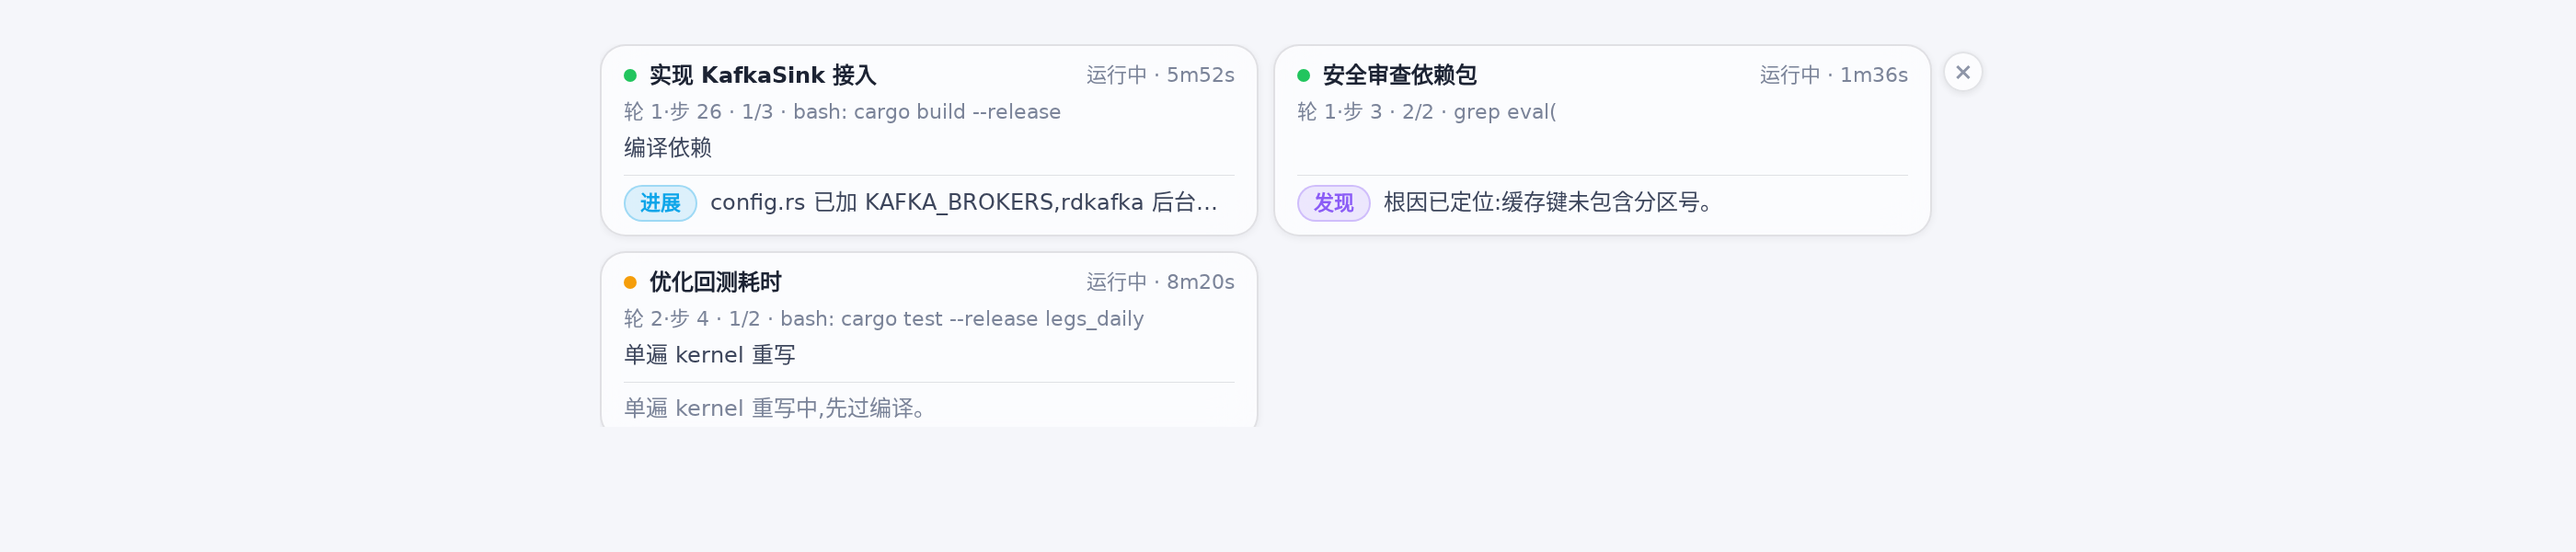
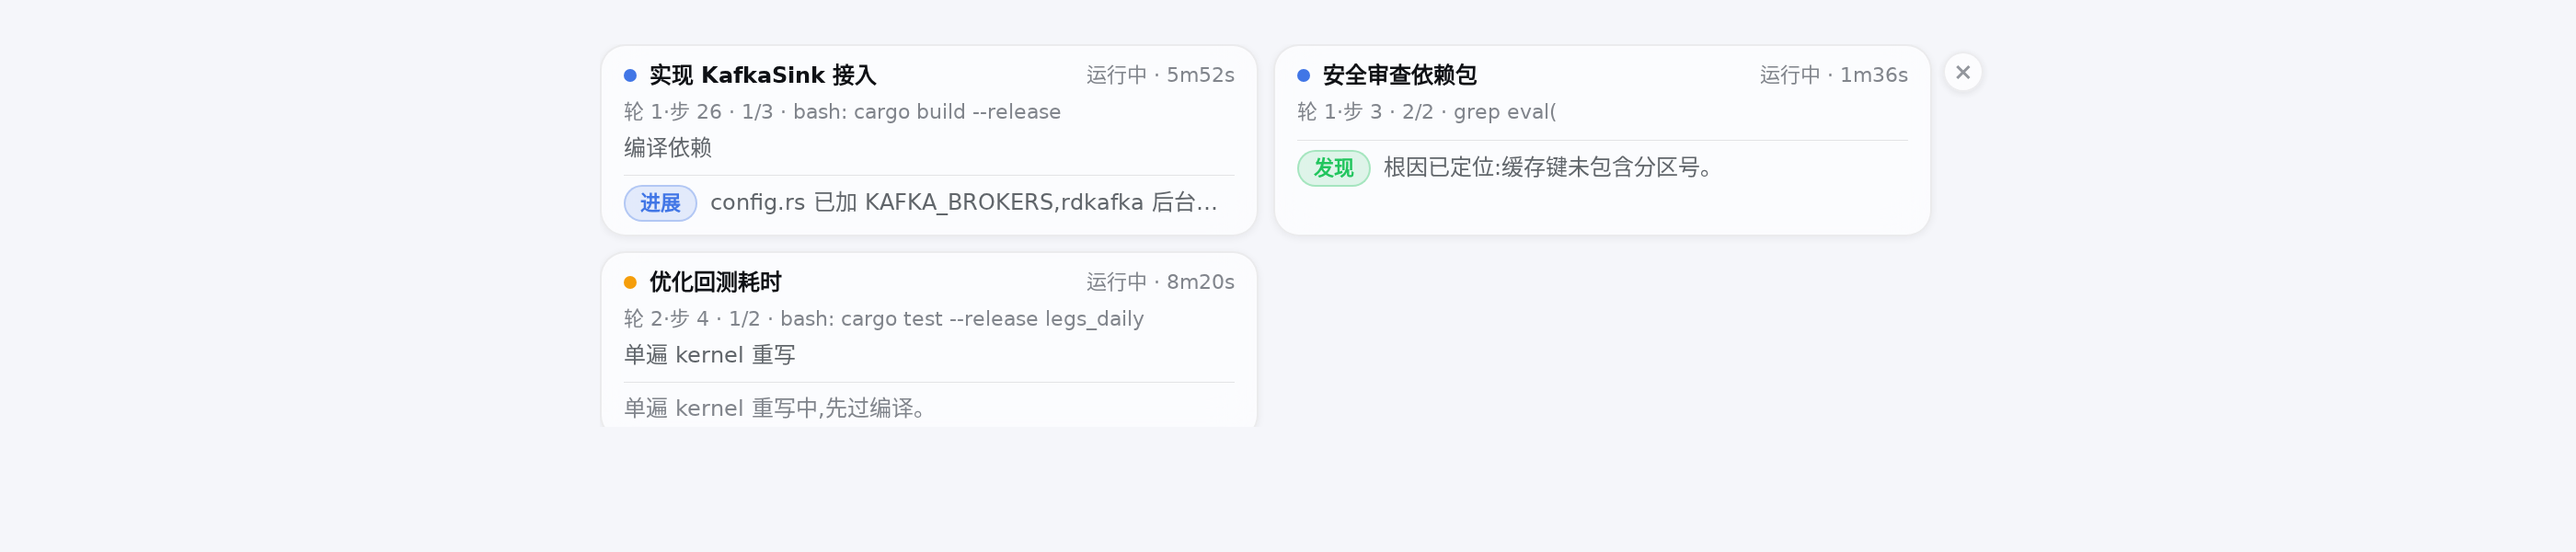
feat: DS-native palette — theme state variables replace Tailwind defaults
The status colors were stock Tailwind hexes (#22c55e/#f59e0b/#0ea5e9/#8b5cf6),
the signature AI-default palette. Now everything references the host's own
design tokens: running dot and progress updates use the DeepSeek brand blue
(--dsw-alias-state-business-primary, #4176e6 light / #679efe dark), stalled
and ETA use --dsw-alias-state-warn-primary, findings use
--dsw-alias-state-success-primary. Violet is gone from the system. All values
are var() references with the DS hex as fallback, so light and dark themes
both adapt automatically. README screenshot regenerated with the new palette.

diff --git a/lib/client.js b/lib/client.js
@@ -169,22 +169,22 @@ window.__ModuleLoader__.load({
   background: var(--dsw-alias-label-dimmed, #9aa0ab);
 }
 .dsh-sp-dot.dsh-sp-live {
-  background: #22c55e;
+  background: var(--dsw-alias-state-business-primary, #4176e6);
   animation: dsh-sp-pulse 1.7s ease-in-out infinite;
 }
 @keyframes dsh-sp-pulse {
-  0%, 100% { box-shadow: 0 0 0 0 rgba(34,197,94,.45); }
-  55% { box-shadow: 0 0 0 5px rgba(34,197,94,0); }
+  0%, 100% { box-shadow: 0 0 0 0 color-mix(in srgb, var(--dsw-alias-state-business-primary, #4176e6) 45%, transparent); }
+  55% { box-shadow: 0 0 0 5px color-mix(in srgb, var(--dsw-alias-state-business-primary, #4176e6) 0%, transparent); }
 }
 /* Running but silent for a while: amber means "no new events", a stall
    warning rather than a decoration; slower, calmer pulse than active work. */
 .dsh-sp-dot.dsh-sp-stalled {
-  background: #f59e0b;
+  background: var(--dsw-alias-state-warn-primary, #f59e0b);
   animation: dsh-sp-pulse-stalled 2.6s ease-in-out infinite;
 }
 @keyframes dsh-sp-pulse-stalled {
-  0%, 100% { box-shadow: 0 0 0 0 rgba(245,158,11,.4); }
-  55% { box-shadow: 0 0 0 4px rgba(245,158,11,0); }
+  0%, 100% { box-shadow: 0 0 0 0 color-mix(in srgb, var(--dsw-alias-state-warn-primary, #f59e0b) 40%, transparent); }
+  55% { box-shadow: 0 0 0 4px color-mix(in srgb, var(--dsw-alias-state-warn-primary, #f59e0b) 0%, transparent); }
 }
 .dsh-sp-label {
   font-weight: 600; color: var(--dsw-alias-label-primary);
@@ -245,11 +245,11 @@ window.__ModuleLoader__.load({
   padding: 5px 11px; border-radius: 12px;
   font-size: 12px; line-height: 18px; color: var(--dsw-alias-label-secondary);
   background:
-    color-mix(in srgb, var(--dsh-sp-kind, #0ea5e9) 8%, transparent),
+    color-mix(in srgb, var(--dsh-sp-kind, var(--dsw-alias-state-business-primary, #4176e6)) 8%, transparent),
     color-mix(in srgb, var(--dsw-specific-menu, rgba(255,255,255,.72)) 55%, transparent);
   -webkit-backdrop-filter: blur(12px) saturate(1.5);
   backdrop-filter: blur(12px) saturate(1.5);
-  border: 1px solid color-mix(in srgb, var(--dsh-sp-kind, #0ea5e9) 28%, transparent);
+  border: 1px solid color-mix(in srgb, var(--dsh-sp-kind, var(--dsw-alias-state-business-primary, #4176e6)) 28%, transparent);
   box-shadow: inset 0 1px 0 rgba(255,255,255,.2), 0 1px 4px rgba(15,18,30,.05);
   cursor: pointer; overflow: hidden;
   animation: dsh-sp-flash .8s ease-out;
@@ -263,7 +263,7 @@ window.__ModuleLoader__.load({
 @keyframes dsh-sp-flash {
   from {
     background:
-      color-mix(in srgb, var(--dsh-sp-kind, #0ea5e9) 26%, transparent),
+      color-mix(in srgb, var(--dsh-sp-kind, var(--dsw-alias-state-business-primary, #4176e6)) 26%, transparent),
       color-mix(in srgb, var(--dsw-specific-menu, rgba(255,255,255,.72)) 55%, transparent);
   }
 }
@@ -271,9 +271,9 @@ window.__ModuleLoader__.load({
   flex: none; display: inline-flex; align-items: center; gap: 4px;
   padding: 1px 8px; border-radius: 999px;
   font-size: 11px; font-weight: 600; line-height: 16px;
-  color: var(--dsh-sp-kind, #0ea5e9);
-  background: color-mix(in srgb, var(--dsh-sp-kind, #0ea5e9) 13%, transparent);
-  border: 1px solid color-mix(in srgb, var(--dsh-sp-kind, #0ea5e9) 30%, transparent);
+  color: var(--dsh-sp-kind, var(--dsw-alias-state-business-primary, #4176e6));
+  background: color-mix(in srgb, var(--dsh-sp-kind, var(--dsw-alias-state-business-primary, #4176e6)) 13%, transparent);
+  border: 1px solid color-mix(in srgb, var(--dsh-sp-kind, var(--dsw-alias-state-business-primary, #4176e6)) 30%, transparent);
 }
 .dsh-sp-update-label {
   flex: none; font-weight: 600; color: var(--dsw-alias-label-primary);
@@ -359,7 +359,11 @@ window.__ModuleLoader__.load({
       document.head.appendChild(tag);
     }
 
-    const KIND_COLOR = { progress: '#0ea5e9', eta: '#f59e0b', finding: '#8b5cf6' };
+    const KIND_COLOR = {
+      progress: 'var(--dsw-alias-state-business-primary, #4176e6)',
+      eta: 'var(--dsw-alias-state-warn-primary, #f59e0b)',
+      finding: 'var(--dsw-alias-state-success-primary, #22c55e)',
+    };
 
     function formatDuration(ms, t) {
       const seconds = Math.max(0, Math.round(ms / 1000));

diff --git a/README.md b/README.md
@@ -11,7 +11,7 @@ English | [中文](README.zh.md)
 ## What you see
 
 - **One card per running subagent**: label, turn/step, todo completion (`1/3`), the exact action in flight (`bash: cargo build --release`, not a bare tool name), and elapsed time.
-- **Subagents report in their own words**: one-sentence updates about progress, how long remains, and key discoveries — blue = progress, amber = ETA, violet = finding.
+- **Subagents report in their own words**: one-sentence updates about progress, how long remains, and key discoveries — brand blue = progress, amber = ETA, green = finding (all sourced from DS theme variables, light/dark adaptive).
 - **Stall alerts**: a live subagent silent for 5+ minutes turns its status dot amber.
 - **Aligned at any count**: cards snap into an equal-width grid with a uniform four-row structure, so they line up perfectly whether there are two or ten; beyond two rows the panel scrolls instead of eating your screen.
 - **Zero nagging**: when a subagent finishes, its card lingers 30 seconds then disappears; important findings stay behind on their own; the × in the corner dismisses the dock, and it quietly comes back when anything new happens.

diff --git a/README.zh.md b/README.zh.md
@@ -11,7 +11,7 @@
 ## 你会看到什么
 
 - **每个运行中的子 agent 一张卡片**:标签、轮次/步数、todo 完成度(`1/3`)、正在执行的具体动作(`bash: cargo build --release` 这种,而不是光秃秃的工具名)、耗时。
-- **子 agent 主动开口汇报**:一句话告诉你进展如何、预计还要多久、有什么关键发现——蓝色=进展、琥珀=预期、紫色=发现。
+- **子 agent 主动开口汇报**:一句话告诉你进展如何、预计还要多久、有什么关键发现——品牌蓝=进展、琥珀=预期、绿=发现(全部取自 DS 主题变量,明暗主题自适应)。
 - **卡住预警**:运行中但 5 分钟没有任何动静,状态点从绿变琥珀。
 - **多子 agent 也对齐**:卡片按等宽网格排列、统一四行结构,任何数量都整整齐齐;超过两行在面板内滚动,不会挤爆屏幕。
 - **不打扰**:子 agent 一结束,卡片停留 30 秒就自动消失;它留下的重要发现会单独保留;右上角的 × 可以暂时关掉整个面板,有新活动时它自己会回来。
